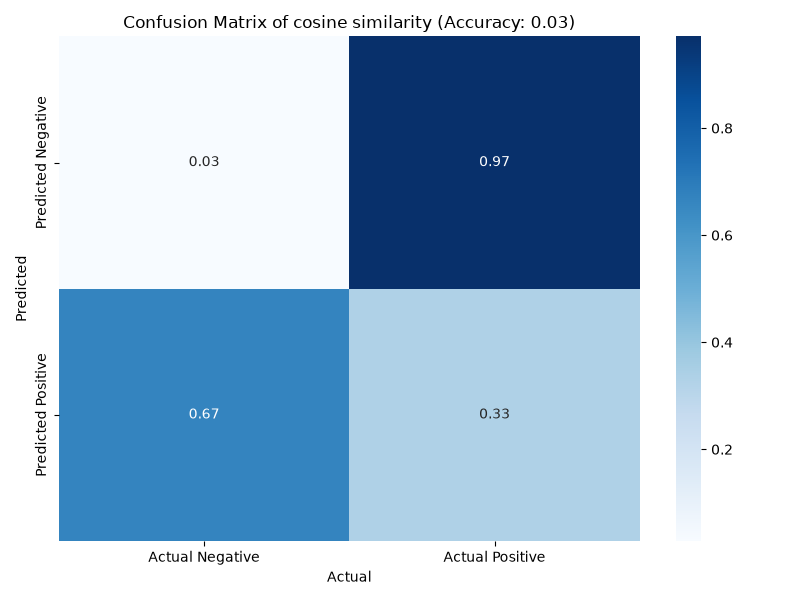
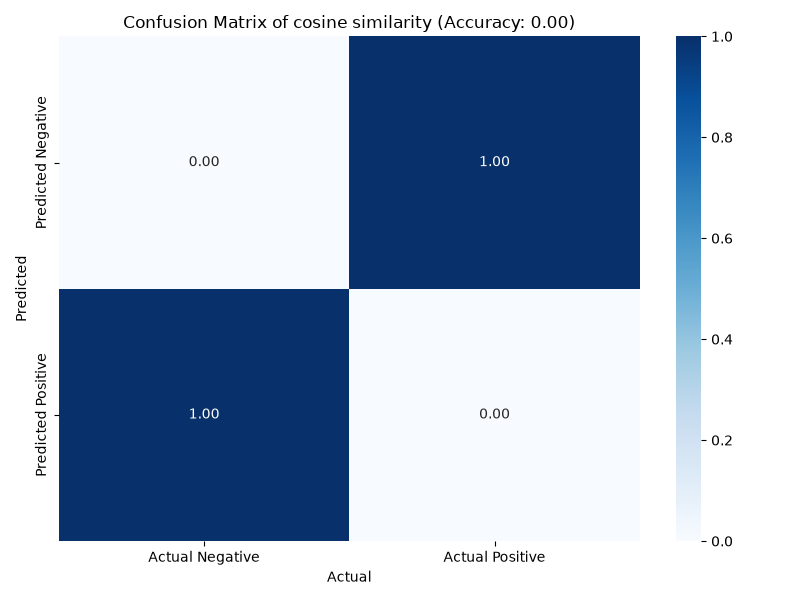
Updated homepage design

diff --git a/recommend/templates/register.html b/recommend/templates/register.html
@@ -44,4 +44,11 @@
       </form>
 
 </div>
+<form method="POST" action="/register/">
+    {% csrf_token %}
+
+    <!-- your fields -->
+
+    <button type="submit">Register</button>
+</form>
 {% endblock content %}

diff --git a/recommend/views.py b/recommend/views.py
@@ -17,6 +17,7 @@ from django.conf import settings
 
 
 
+
 # Create your views here.
 def filterMovieByTitle():
     # Filtering by titles alphabetically
@@ -72,7 +73,7 @@ def recommend(request):
 
 
 def register(request):
-    if request.method =="POST":
+    if request.method == "POST":
         first_name = request.POST.get('first_name')
         last_name = request.POST.get('last_name')
         username = request.POST.get('username')
@@ -82,42 +83,62 @@ def register(request):
             messages.error(request, "All fields must be filled.")
             return redirect('/register/')
 
-       
         if User.objects.filter(username=username).exists():
             messages.info(request, "Username already taken.")
             return redirect('/register/')
 
-       
         user = User.objects.create(
             first_name=first_name,
             last_name=last_name,
-            username=username,
+            username=username
         )
+
         user.set_password(password)
         user.save()
 
-        file_path = 'C:/Users/amrit/Desktop/final8/rate.csv'
-        with open(file_path, 'r') as file:
+        # Correct path for rate.csv
+        file_path = os.path.join(settings.BASE_DIR, 'rate.csv')
+
+        with open(file_path, 'r', encoding='utf-8') as file:
             reader = csv.DictReader(file)
+
             for row in reader:
                 csv_user_id = row['userId']
-                if csv_user_id == str(user.pk): 
+
+                if csv_user_id == str(user.pk):
                     movie_id = row['movieId']
                     rating_value = row['rating']
+
                     try:
                         movie = Movie.objects.get(pk=movie_id)
                     except Movie.DoesNotExist:
-                        print(f"Movie with ID {movie_id} does not exist. Skipping rating import for this movie.")
+                        print(
+                            f"Movie with ID {movie_id} does not exist. "
+                            f"Skipping rating import."
+                        )
                         continue
 
-                    if Rating.objects.filter(user=user, movie=movie).exists():
-                        print(f"Rating for user {user.pk} and movie {movie_id} already exists. Skipping duplicate.")
+                    if Rating.objects.filter(
+                        user=user,
+                        movie=movie
+                    ).exists():
+                        print(
+                            f"Rating already exists for user {user.pk} "
+                            f"and movie {movie_id}."
+                        )
                         continue
 
-                    # Create rating object
-                    Rating.objects.create(user=user, movie=movie, rating=rating_value)
+                    Rating.objects.create(
+                        user=user,
+                        movie=movie,
+                        rating=rating_value
+                    )
 
-        messages.info(request, "Account created successfully with ratings imported if available.")
+        messages.success(
+            request,
+            "Account created successfully with ratings imported if available."
+        )
+
         return redirect('/register/')
 
     return render(request, 'register.html')
